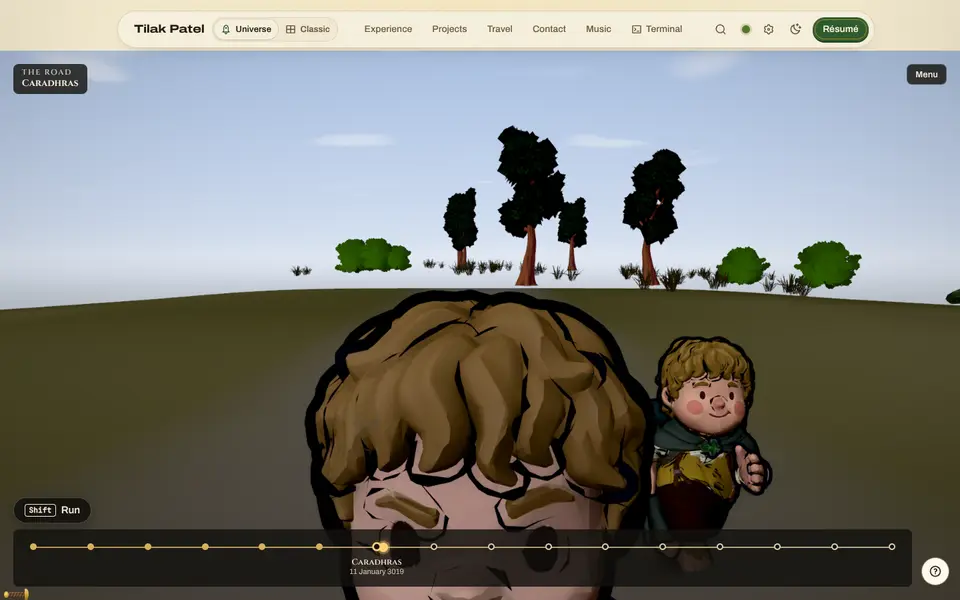
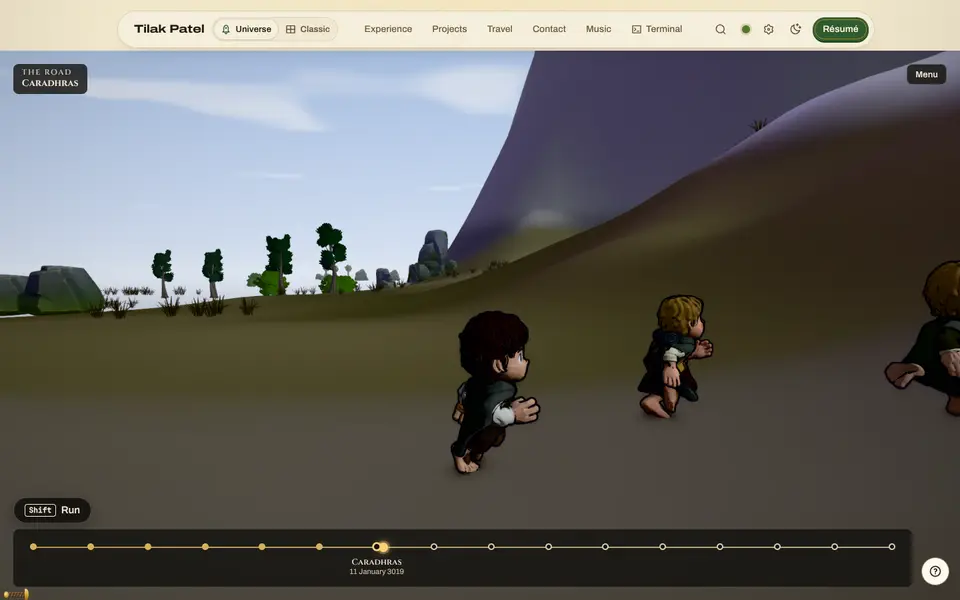
The Road: Hollin from the side, as a lead shot stood among the walkers
Claude-Session: https://claude.ai/code/session_01UzfodGSzW2TB9FFiJxSmHP

diff --git a/src/components/middleearth/road/stages/caradhras/beats.js b/src/components/middleearth/road/stages/caradhras/beats.js
@@ -9,8 +9,9 @@
 export { entered, left } from '../../beats';
 
 export const BEATS = [
-  // Eregion’s bare hills, the holly, the mountains ahead
-  { id: 'hollin', kind: 'hollin', at: 12, hold: 0, rig: 'lead', reach: 16 },
+  // Eregion’s bare hills, the holly, the mountains ahead (from the side: a lead shot
+  // looks back from among the nine walking ahead of Frodo)
+  { id: 'hollin', kind: 'hollin', at: 12, hold: 0, rig: 'side', reach: 16 },
   // the flock over the ridge and back; the walkers under the rocks
   { id: 'crebain', kind: 'crebain', at: 32, hold: 8, rig: 'wide', reach: 12, params: { at: [-9, 2.2, 22], lookAt: [6, 9, 52], above: true } },
   // the Redhorn in snow, the wind at full, Saruman’s voice on it
